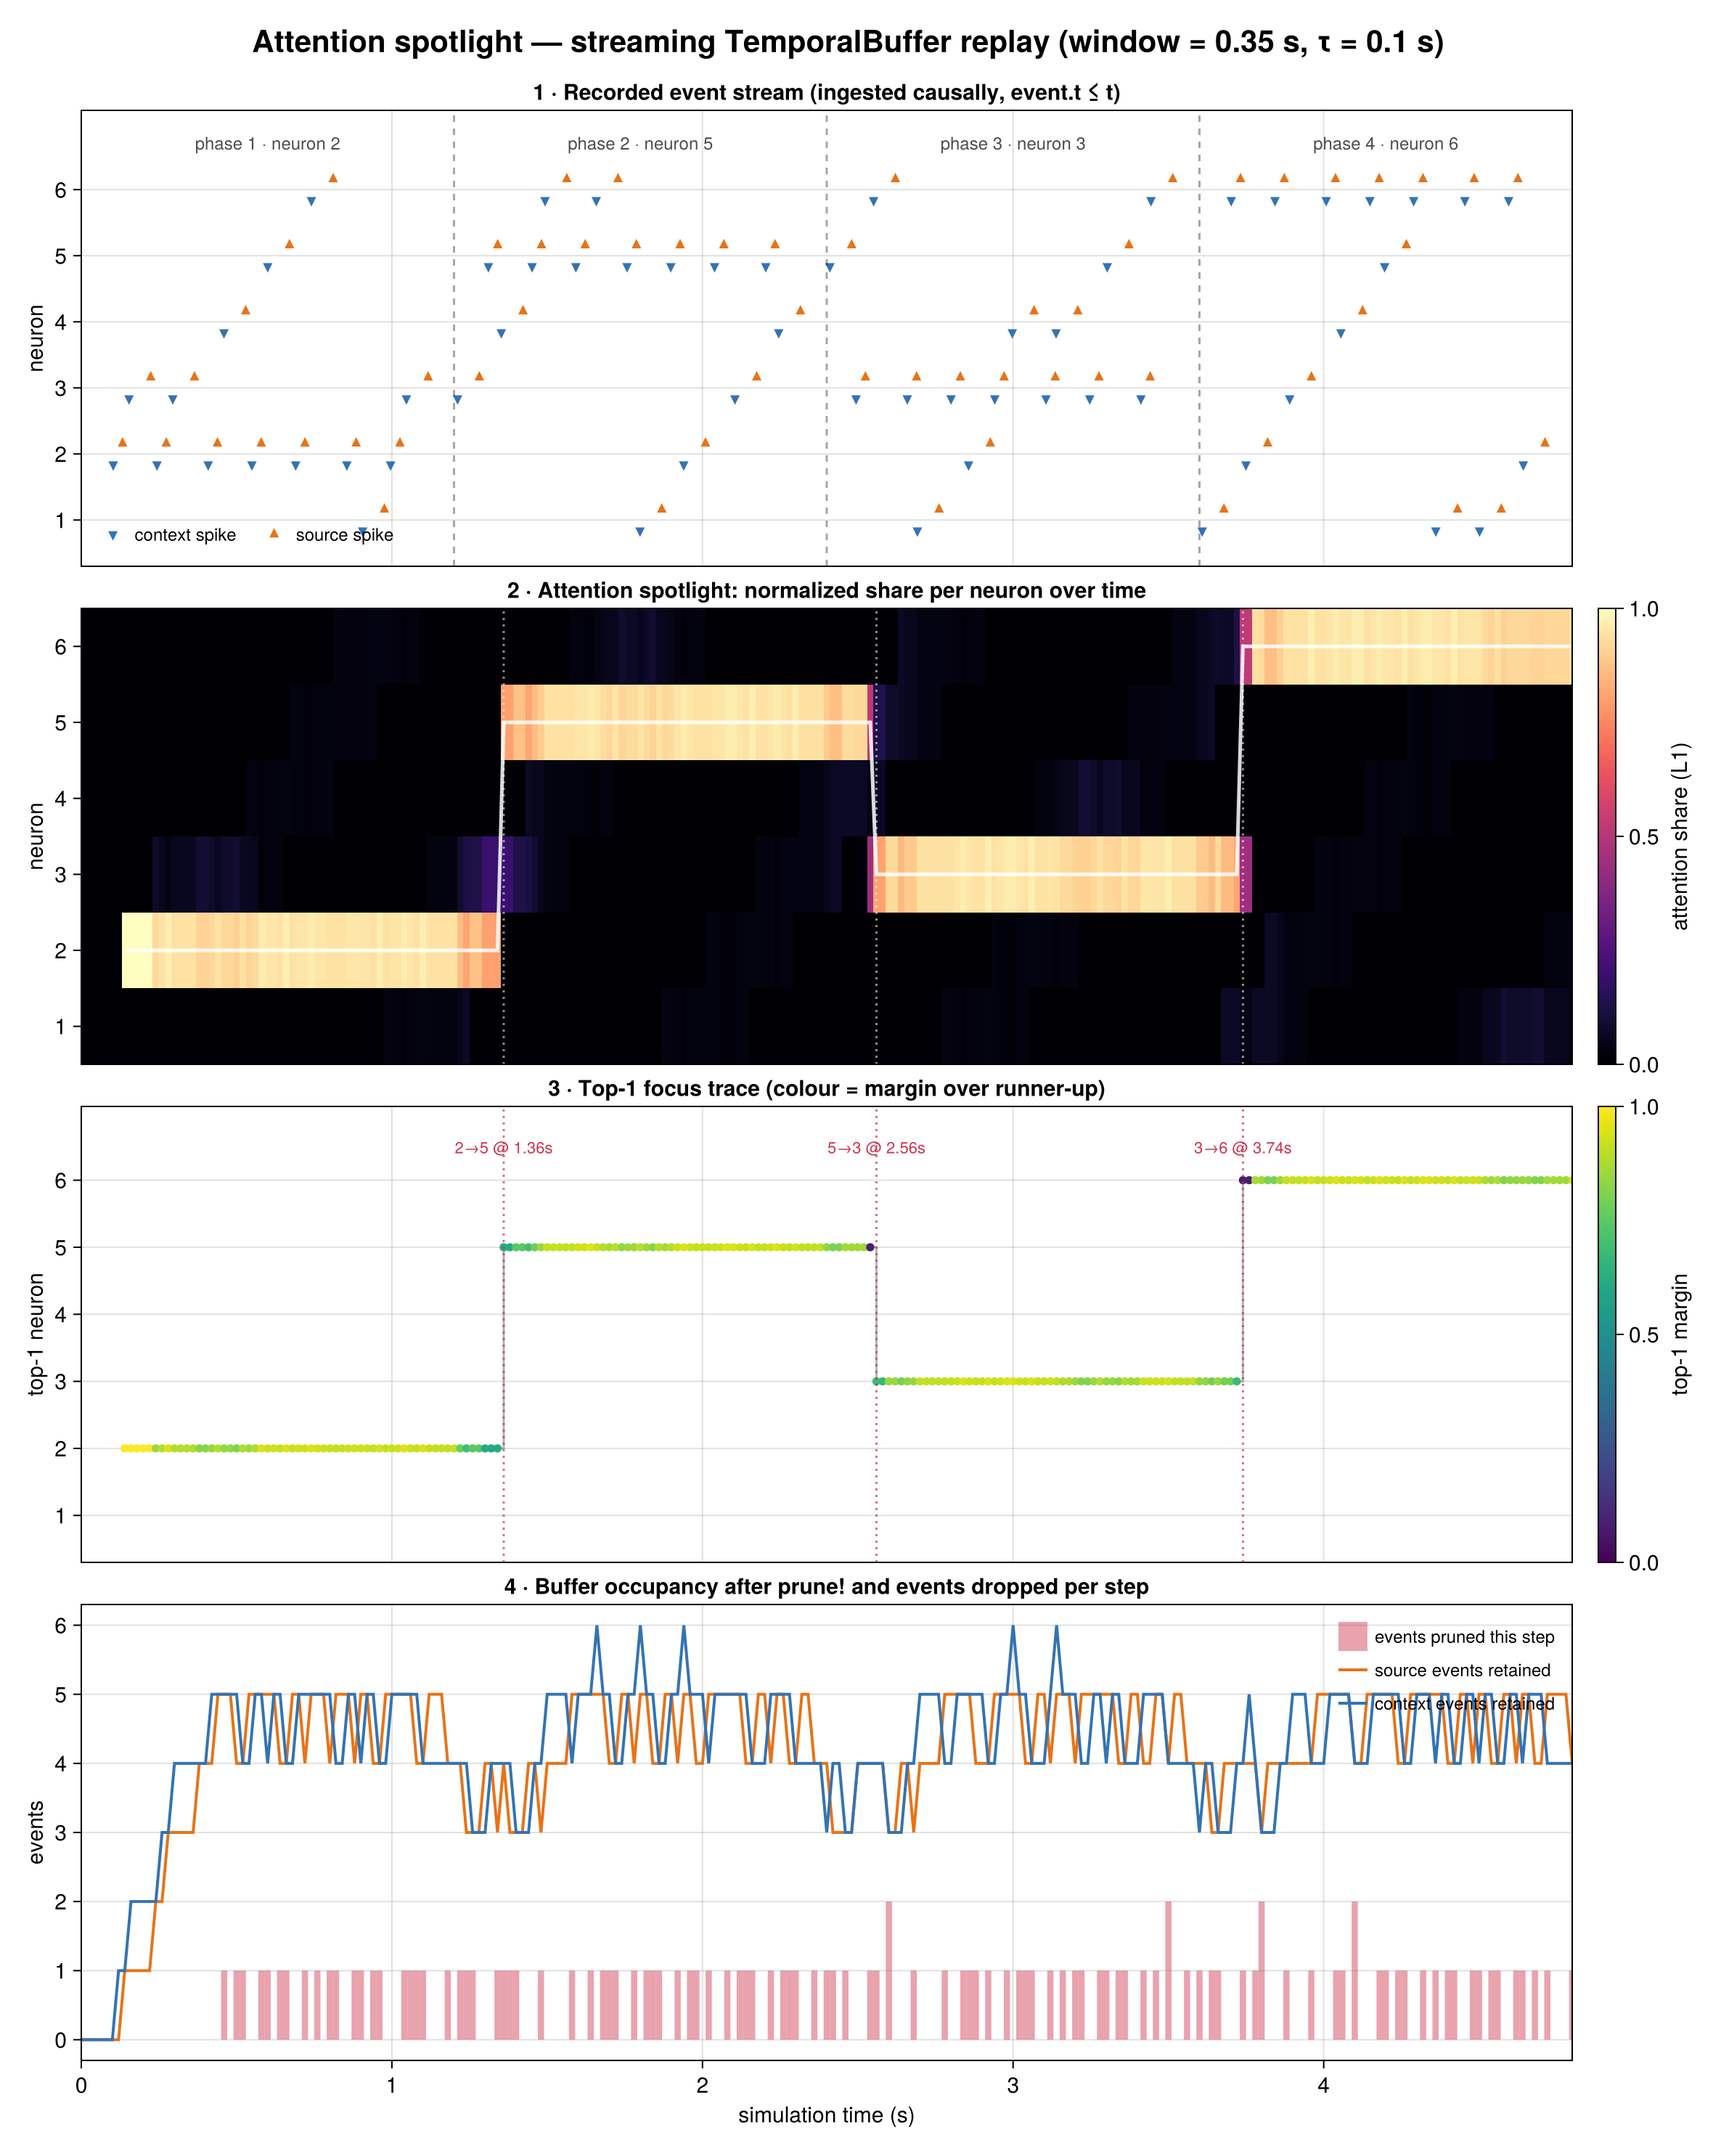
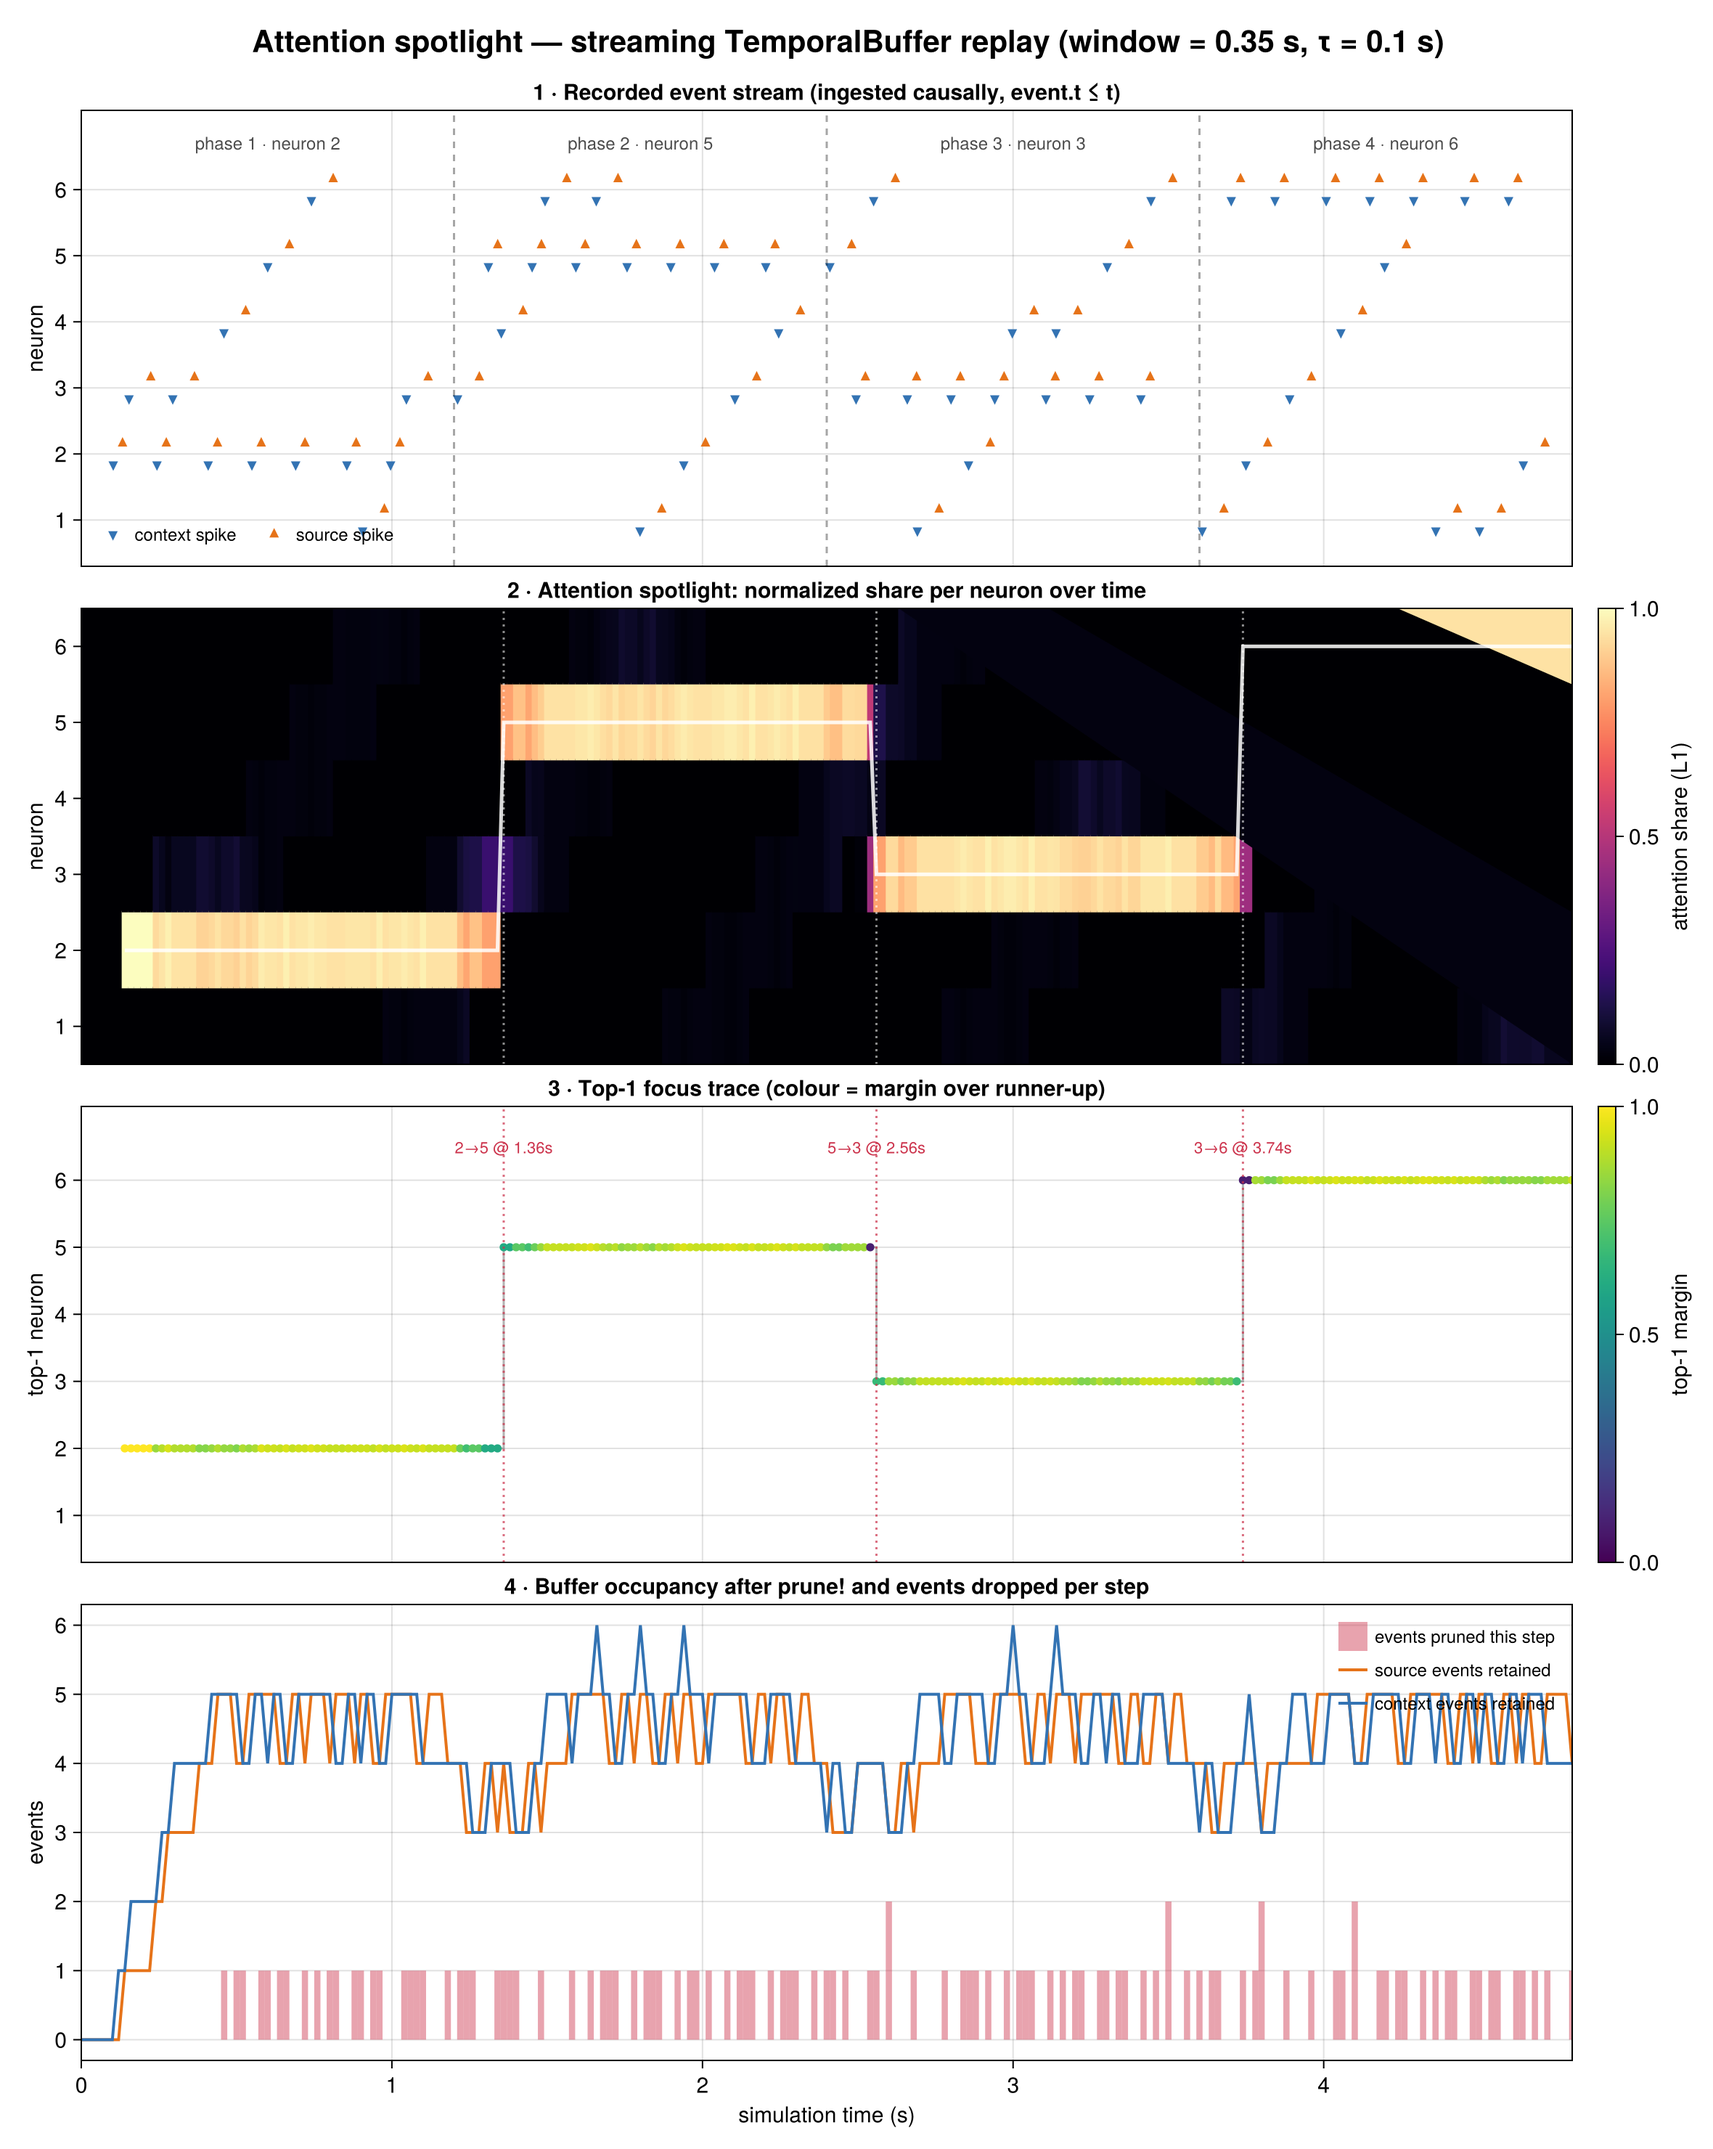
codex: address PR review feedback (#59)
Preserve endpoint-adjacent grid samples, keep cross-phase background pairs off the spotlight, and quote carriage returns in CSV output.

Changed region(s): [[0.6805, 0.2797, 0.897, 0.3419], [0.8661, 0.4351, 0.897, 0.4973]]

diff --git a/experiments/results/attention_spotlight/summary.md b/experiments/results/attention_spotlight/summary.md
@@ -12,7 +12,7 @@ scheduler, or event-loop API.
 - neurons: 6
 - buffer window: 0.35 s (also bounds `|dt|` inside the kernel)
 - τ: 0.1 s
-- sampled every 0.02 s from 0.0 s to 4.8 s (241 timesteps)
+- sampled every 0.02 s from 0.0 s to 4.8 s (242 timesteps)
 - 4 phases of 1.2 s, spotlighting neurons 2, 5, 3, 6
 - 118 recorded events (56 pattern, 62 background)
 
@@ -23,7 +23,7 @@ scheduler, or event-loop API.
 | 1 | 2 | 0.14 | 1.34 | 61 |
 | 2 | 5 | 1.36 | 2.54 | 60 |
 | 3 | 3 | 2.56 | 3.72 | 59 |
-| 4 | 6 | 3.74 | 4.80 | 54 |
+| 4 | 6 | 3.74 | 4.80 | 55 |
 
 3 spotlight handoff(s):
 
@@ -35,9 +35,9 @@ scheduler, or event-loop API.
 
 - peak retained source events: 5
 - peak retained context events: 6
-- steps where `prune!` dropped at least one event: 106 of 241
+- steps where `prune!` dropped at least one event: 106 of 242
 - total events pruned across the replay: 110
-- steps with a non-zero attention peak: 234 of 241
+- steps with a non-zero attention peak: 235 of 242
 
 ## Artifacts
 
